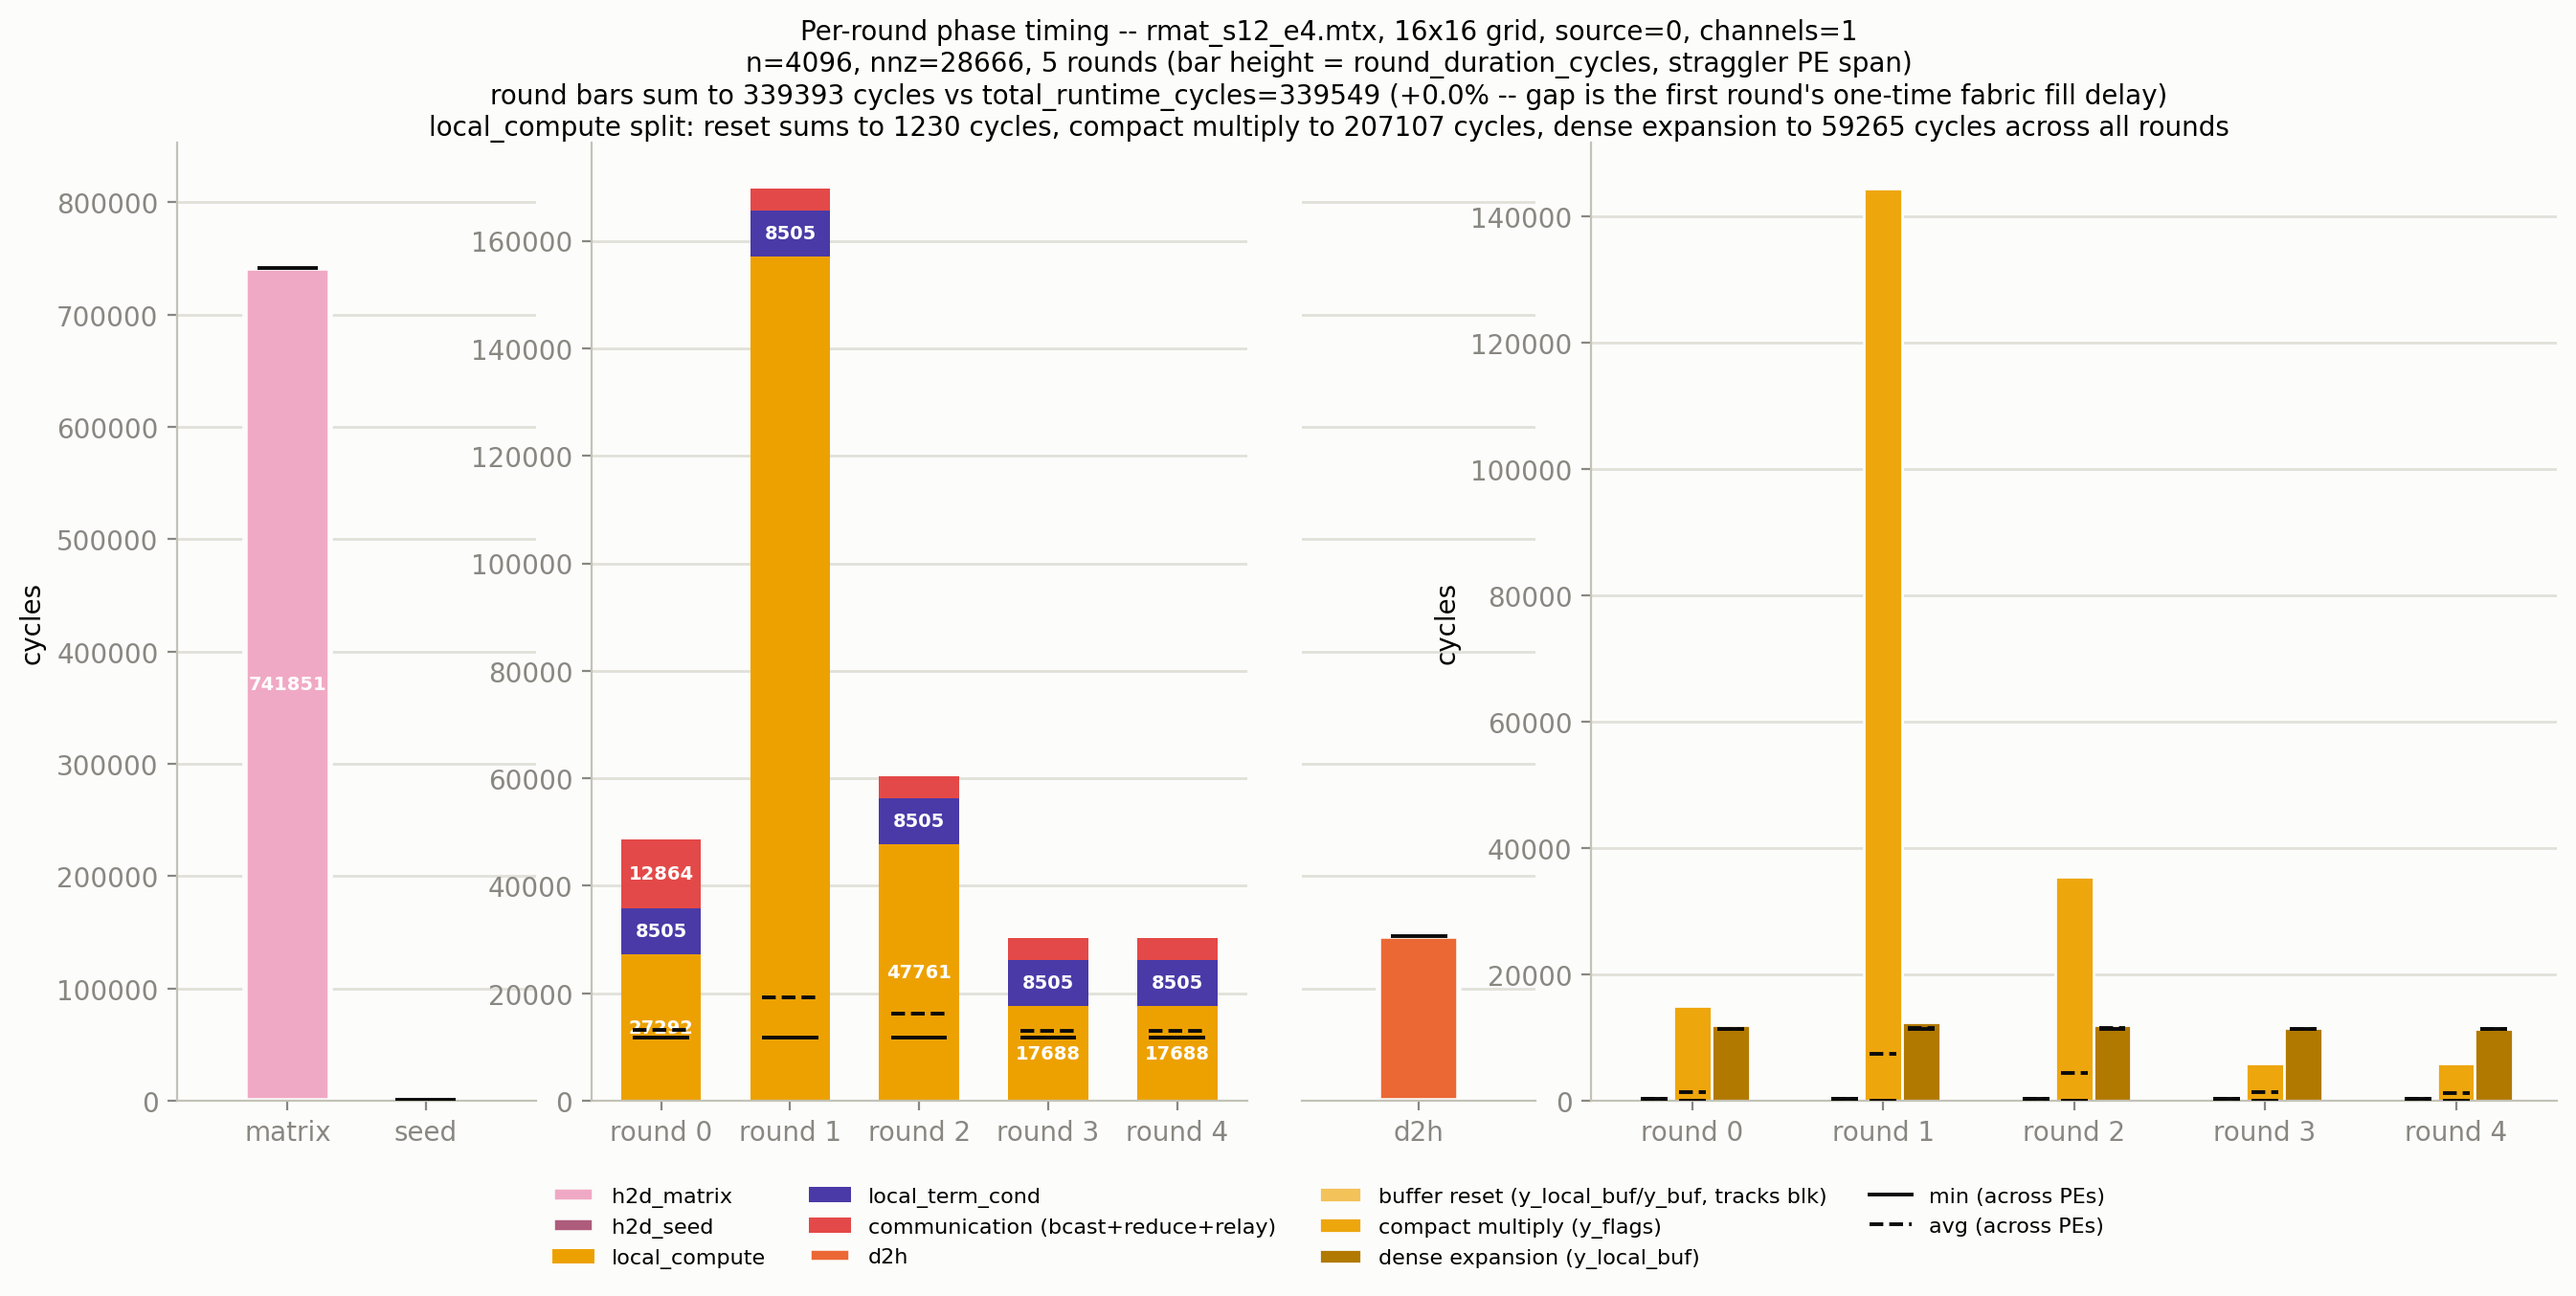
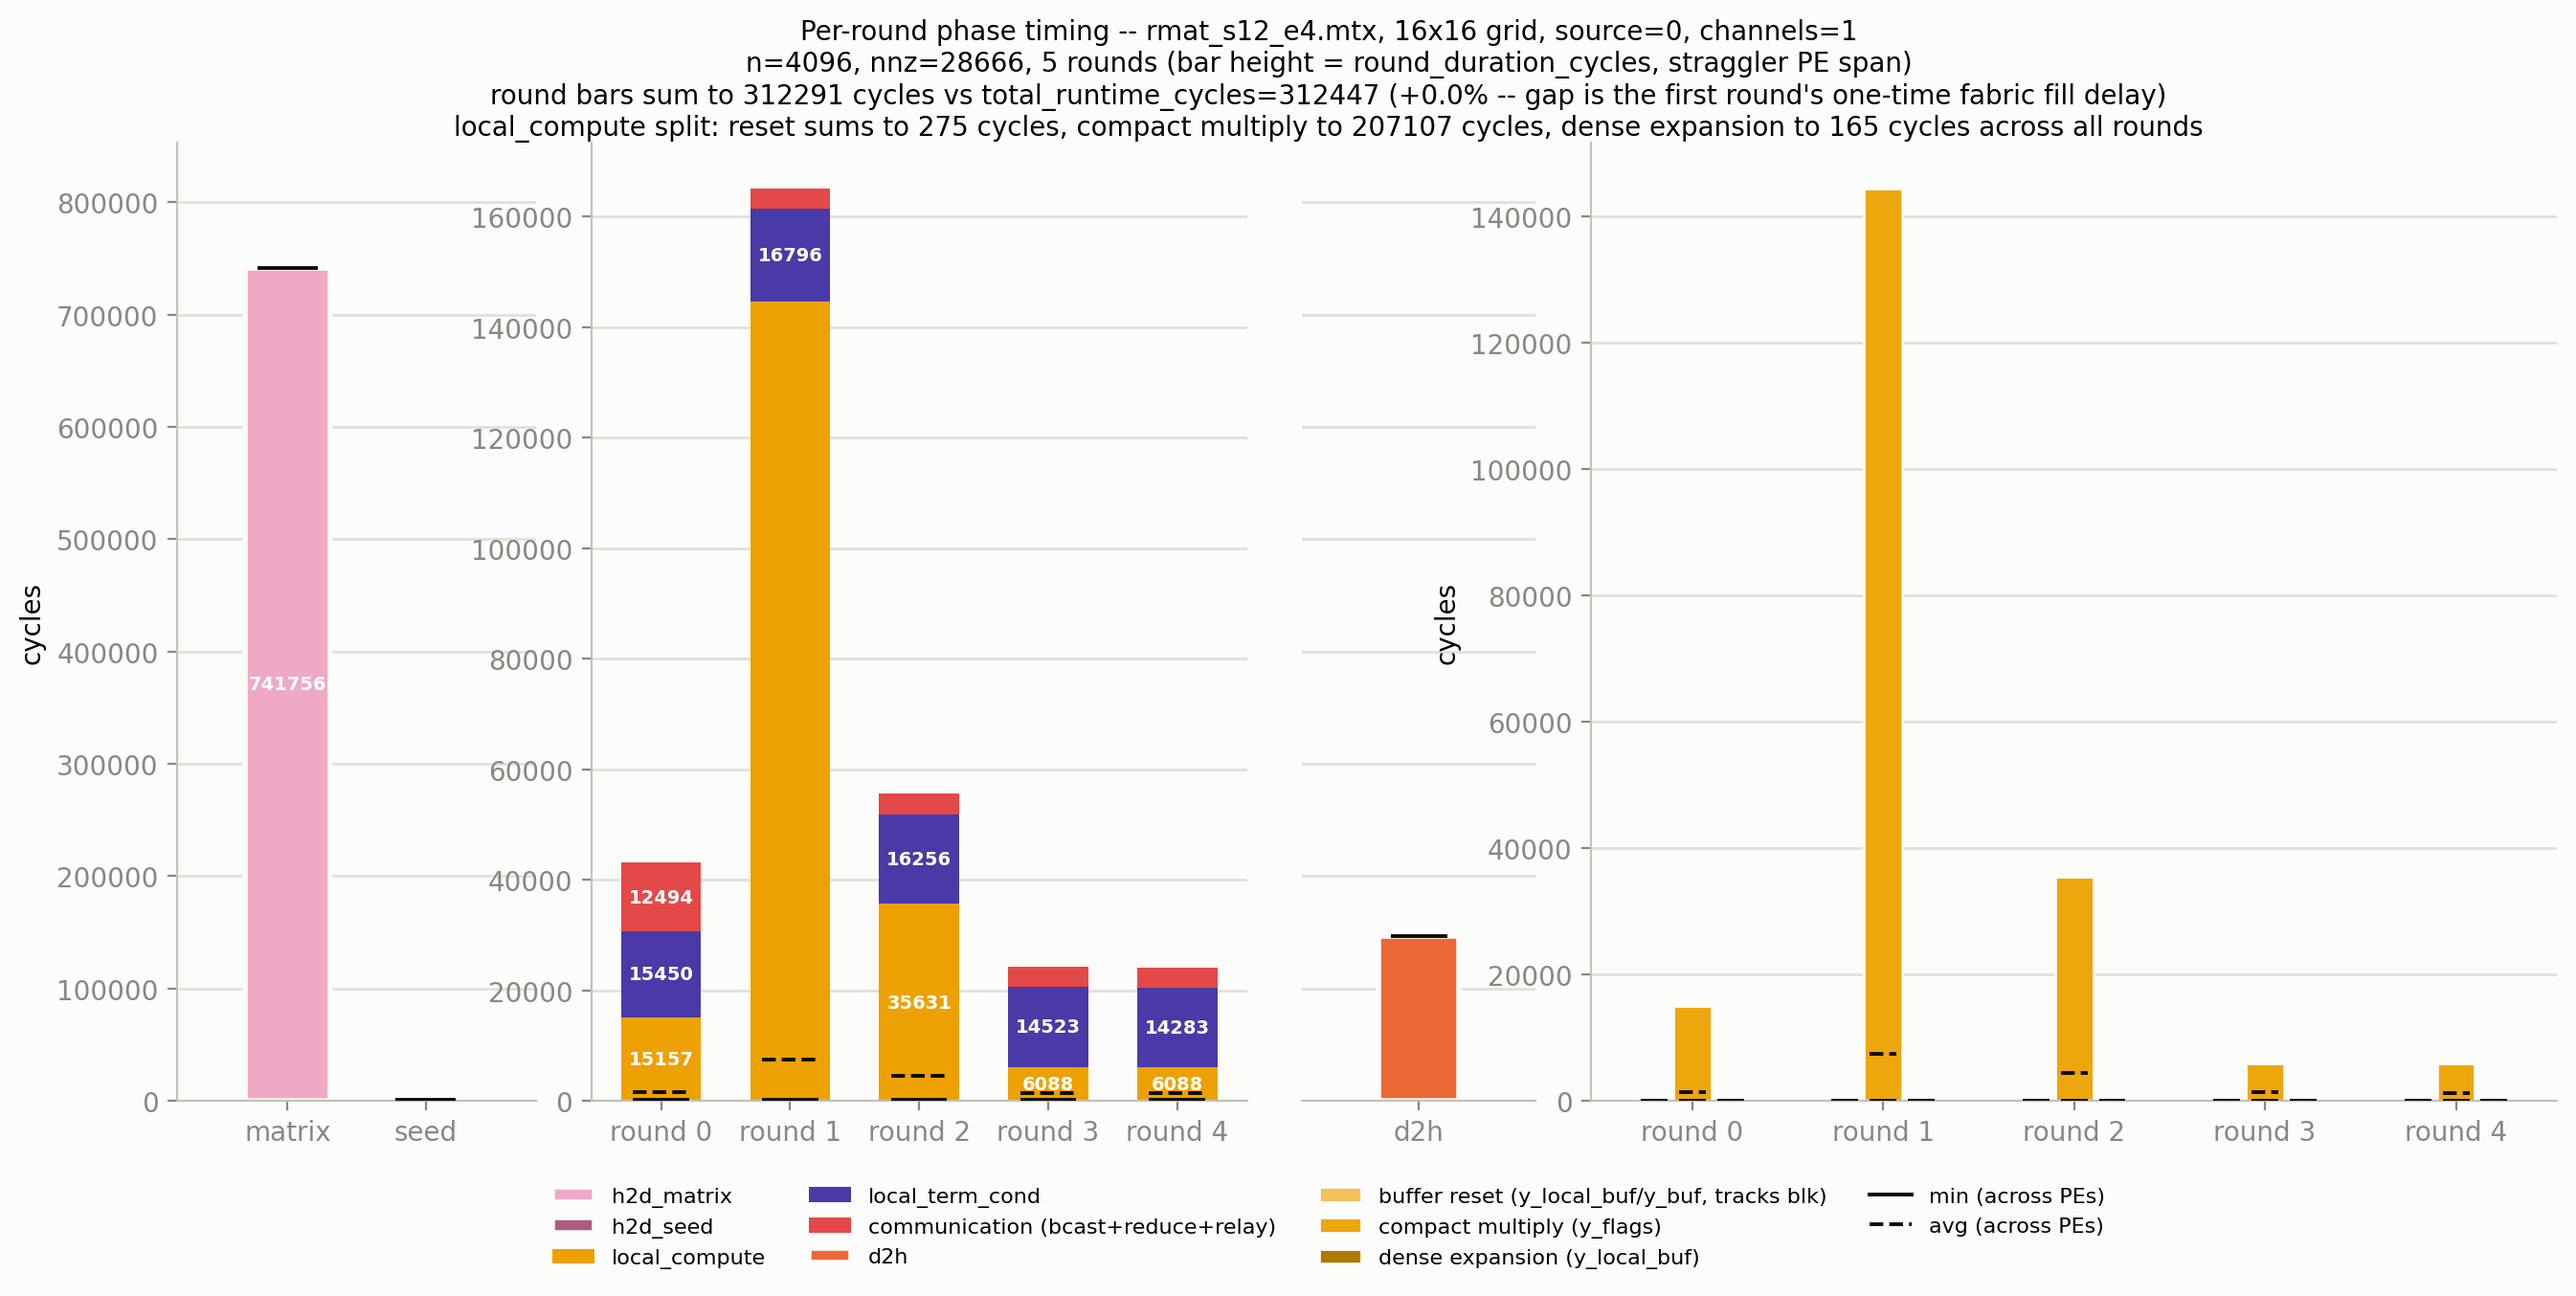
[add] hooked or_reduce in bfs: removed expand phase

diff --git a/spmv-hypersparse/bool_diag_spmv/run_host_driven_bfs.py b/spmv-hypersparse/bool_diag_spmv/run_host_driven_bfs.py
@@ -19,8 +19,8 @@
   stop.
 
   Parent tracking (which vertex discovered a given node) can't go through
-  reduce_fadds -- it's a sum, not a selection -- so it's tracked per-PE
-  BEFORE the reduce instead (see compute() in bool_pe.csl): every PE knows
+  the row-reduce -- it's a combine (OR), not a selection -- so it's tracked
+  per-PE BEFORE the reduce instead (see compute() in bool_pe.csl): every PE knows
   exactly which of its own local columns touched which local row this
   round, and -- gated on that row not being visited yet, which is what
   makes this a genuine one-hop-closer BFS parent rather than merely a
@@ -36,12 +36,13 @@
   discovered set) is bit-identical between running f_spmv_iter once and
   calling single-shot f_spmv from the host in a loop that applies the
   identical visited-mask and stops the same way; (2) the terminating
-  round's RAW (unmasked) y_buf is also bit-identical -- NOT the masked
-  x_buf, which the loop's own stop condition forces to all-zero on both
-  sides regardless of correctness, so comparing it would be vacuous; y_buf
-  is genuinely data-dependent (it can be nonzero, full of entries that
-  happen to already be in visited_buf) and is where a bug in the terminating
-  round's own SpMV computation would actually show up; (3) rounds_completed
+  round's RAW (unmasked) y_bitmap_reduced (unpacked to dense) is also
+  bit-identical -- NOT the masked x_buf, which the loop's own stop condition
+  forces to all-zero on both sides regardless of correctness, so comparing
+  it would be vacuous; y_bitmap_reduced is genuinely data-dependent (it can
+  be nonzero, full of entries that happen to already be in visited_buf) and
+  is where a bug in the terminating round's own SpMV computation would
+  actually show up; (3) rounds_completed
   (a host-visible counter, purely for this test) shows the device stopped at
   exactly the same round the host independently computed, not some other
   round; (4) the assembled parent vector matches a host-side reference that
@@ -71,7 +72,8 @@ from datetime import datetime, timezone
 import numpy as np
 from cmd_parser import parse_args
 from device_io import (csl_compile_core, dist_x_to_diag_hwl, extract_diag_result,
-                        extract_parent_result, hwl_to_oned_colmajor, oned_to_hwl_colmajor)
+                        extract_parent_result, hwl_to_oned_colmajor, oned_to_hwl_colmajor,
+                        unpack_bitmap_to_dense)
 from preprocess_bool import preprocess
 from scipy.io import mmread
 
@@ -207,6 +209,9 @@ def main():
   # blk = per-PE dense vector chunk size = ceil(n / P), same on both axes
   # since the matrix and grid are both square.
   blk = math.ceil(n / P)
+  # bitmap_words: matches bool_pe.csl's BITMAP_WORDS = ceil(blk/32) exactly --
+  # y_bitmap_reduced is packed this way, see device_io.unpack_bitmap_to_dense.
+  bitmap_words = (blk + 31) // 32
 
   np.random.seed(0)
   x_bool0 = np.random.rand(n) < 0.5
@@ -273,7 +278,7 @@ def main():
   runner = SdkRuntime(dirname, cmaddr=args.cmaddr, suppress_simfab_trace=True)
 
   sym_x_buf = runner.get_id("x_buf")
-  sym_y_buf = runner.get_id("y_buf")
+  sym_y_bitmap_reduced = runner.get_id("y_bitmap_reduced")
   sym_visited_buf = runner.get_id("visited_buf")
   sym_rounds_completed = runner.get_id("rounds_completed")
   sym_parent_local_buf = runner.get_id("parent_local_buf")
@@ -345,6 +350,18 @@ def main():
                        order=MemcpyOrder.COL_MAJOR, nonblock=False)
     return oned_to_hwl_colmajor(height, width, blk, buf_1d, np.float32)
 
+  def read_y_bitmap_reduced():
+    # y_bitmap_reduced is packed (bitmap_words u32 words per PE), not dense
+    # (blk f32 per PE) like read_buf's other callers (x_buf/visited_buf) --
+    # read it at its own native size, then unpack to the dense float shape
+    # read_buf's callers already expect (see extract_diag_result).
+    buf_1d = np.zeros(height * width * bitmap_words, np.uint32)
+    runner.memcpy_d2h(buf_1d, sym_y_bitmap_reduced, 0, 0, width, height, bitmap_words,
+                       streaming=False, data_type=MemcpyDataType.MEMCPY_32BIT,
+                       order=MemcpyOrder.COL_MAJOR, nonblock=False)
+    bitmap_hwl = np.reshape(buf_1d, (height, width, bitmap_words), order="F")
+    return unpack_bitmap_to_dense(height, width, blk, bitmap_hwl)
+
   def read_rounds_completed():
     # every PE increments its own copy in lockstep (the 4-phase relay makes
     # them all agree each round before any of them decides to continue), so
@@ -358,7 +375,7 @@ def main():
     return int(np.reshape(buf_1d, (height, width, 1), order="F")[(0, 0, 0)])
 
   def read_parent_local_buf():
-    # unlike x_buf/y_buf/visited_buf, parent_local_buf is meaningful at
+    # unlike x_buf/y_bitmap_reduced/visited_buf, parent_local_buf is meaningful at
     # EVERY PE (not just the diagonal) -- read back the full rectangle,
     # same u16-over-u32-wire convention as read_rounds_completed above.
     buf_1d = np.zeros(height * width * blk, np.uint32)
@@ -387,11 +404,11 @@ def main():
   # whether anything upstream is even correct. It's still useful as an
   # invariant check (the relay's stop decision better actually agree with
   # x_buf's content), just not as a host comparison. The real comparison
-  # uses y_buf -- the RAW, unmasked SpMV result for the terminating round,
-  # which is genuinely data-dependent (it can easily be nonzero, full of
-  # entries that all happen to already be in visited_buf).
+  # uses y_bitmap_reduced -- the RAW, unmasked SpMV result for the
+  # terminating round, which is genuinely data-dependent (it can easily be
+  # nonzero, full of entries that all happen to already be in visited_buf).
   device_new_last = extract_diag_result(n, blk, P, read_buf(sym_x_buf))
-  device_last_raw = extract_diag_result(n, blk, P, read_buf(sym_y_buf))
+  device_last_raw = extract_diag_result(n, blk, P, read_y_bitmap_reduced())
   device_visited = extract_diag_result(n, blk, P, read_buf(sym_visited_buf))
   device_rounds_run = read_rounds_completed()
   device_parent = extract_parent_result(n, blk, P, read_parent_local_buf())
@@ -405,7 +422,7 @@ def main():
   frontier_bool = x_bool0  # this round's active input, for update_parent_reference
   visited = x_bool0.copy()  # f_spmv_iter seeds visited_buf from the initial x_buf too
   host_parent = np.full(n, -1, dtype=np.int64)
-  host_last_raw = None  # the terminating round's raw y_buf -- the real comparison target
+  host_last_raw = None  # the terminating round's raw y_bitmap_reduced -- the real comparison target
   host_new_last = None
   per_round_popcount = []
   host_rounds_run = 0
@@ -413,7 +430,7 @@ def main():
     update_parent_reference(host_parent, A_csr, frontier_bool, visited)
     seed_x(x_hwl)
     runner.launch("f_spmv", nonblock=False)
-    host_last_raw = extract_diag_result(n, blk, P, read_buf(sym_y_buf))
+    host_last_raw = extract_diag_result(n, blk, P, read_y_bitmap_reduced())
     host_new_last = host_last_raw & ~visited
     visited |= host_new_last
     host_rounds_run += 1
@@ -446,7 +463,7 @@ def main():
             and (n_mismatch_parent == 0) and rounds_match and invariant_ok)
   n_with_parent = int(np.sum(device_parent >= 0))
   print(f"[[ visited mismatches: {n_mismatch_visited} / {n} ]]")
-  print(f"[[ last-round RAW (unmasked y_buf) mismatches: {n_mismatch_last_raw} / {n} ]]")
+  print(f"[[ last-round RAW (unmasked y_bitmap_reduced) mismatches: {n_mismatch_last_raw} / {n} ]]")
   print(f"[[ parent mismatches: {n_mismatch_parent} / {n} ({n_with_parent} assigned a parent) ]]")
   print(f"[[ rounds completed: device={device_rounds_run}, host={host_rounds_run} "
         f"({'match' if rounds_match else 'MISMATCH'}) ]]")

diff --git a/spmv-hypersparse/bool_diag_spmv/run_single_spmv.py b/spmv-hypersparse/bool_diag_spmv/run_single_spmv.py
@@ -7,12 +7,14 @@
     - y = OR_j (A[i,j] AND x[j]),
     - the PE grid must be square so every row/column has a diagonal PE.
 
-  The input vector x is seeded only at the diagonal PEs (host memcpy); 
+  The input vector x is seeded only at the diagonal PEs (host memcpy);
   1. Phase 1: (<collectives_2d> mpi_y.broadcast) distributes each column's x-block from
-    its diagonal PE to the rest of the column. 
-  2. Phase 2: (mpi_x.reduce_fadds) reduces every row's local boolean contributions to that row's diagonal PE,
-    which ends up holding the row's final result. 
-  The host reads back the full PE rectangle and keeps only the diagonal entries.
+    its diagonal PE to the rest of the column.
+  2. Phase 2: (mpi_x.reduce_or) OR-reduces every row's local boolean contributions (packed
+    as a bitmap, y_bitmap) to that row's diagonal PE, which ends up holding the row's final
+    result in y_bitmap_reduced.
+  The host reads back the full PE rectangle, unpacks the bitmap, and keeps only the
+  diagonal entries.
 
   How to compile and run
      python run_single_spmv.py --arch=wse2 --num_pe_cols=4 --num_pe_rows=4 --channels=1
@@ -28,7 +30,7 @@ import time
 import numpy as np
 from cmd_parser import parse_args
 from device_io import (csl_compile_core, dist_x_to_diag_hwl, extract_diag_result,
-                        hwl_to_oned_colmajor, oned_to_hwl_colmajor)
+                        hwl_to_oned_colmajor, unpack_bitmap_to_dense)
 from preprocess_bool import preprocess
 from scipy.io import mmread
 
@@ -137,6 +139,9 @@ def main():
   # blk = per-PE dense vector chunk size = ceil(n / P), same on both axes
   # since the matrix and grid are both square.
   blk = math.ceil(n / P)
+  # bitmap_words: matches bool_pe.csl's BITMAP_WORDS = ceil(blk/32) exactly --
+  # y_bitmap_reduced is packed this way, see device_io.unpack_bitmap_to_dense.
+  bitmap_words = (blk + 31) // 32
 
   np.random.seed(0)
   x_bool = (np.random.rand(n) < 0.5)
@@ -207,7 +212,7 @@ def main():
   runner = SdkRuntime(dirname, cmaddr=args.cmaddr, suppress_simfab_trace=True)
 
   sym_x_buf = runner.get_id("x_buf")
-  sym_y_buf = runner.get_id("y_buf")
+  sym_y_bitmap_reduced = runner.get_id("y_bitmap_reduced")
   sym_mat_rows_buf = runner.get_id("mat_rows_buf")
   sym_mat_col_idx_buf = runner.get_id("mat_col_idx_buf")
   sym_mat_col_loc_buf = runner.get_id("mat_col_loc_buf")
@@ -272,9 +277,10 @@ def main():
   print("step 2: spmv")
   runner.launch("f_spmv", nonblock=False)
 
-  print("step 3: fetch the output vector y (f32, meaningful only at the diagonal PEs)")
-  y_1d = np.zeros(height * width * blk, np.float32)
-  runner.memcpy_d2h(y_1d, sym_y_buf, 0, 0, width, height, blk,
+  print("step 3: fetch the output bitmap y_bitmap_reduced (u32 words, meaningful only at "
+        "the diagonal PEs), unpack to dense")
+  y_bitmap_1d = np.zeros(height * width * bitmap_words, np.uint32)
+  runner.memcpy_d2h(y_bitmap_1d, sym_y_bitmap_reduced, 0, 0, width, height, bitmap_words,
                      streaming=False, data_type=MemcpyDataType.MEMCPY_32BIT,
                      order=MemcpyOrder.COL_MAJOR, nonblock=False)
 
@@ -283,7 +289,8 @@ def main():
   end = time.time()
   print(f"*** Run done in {end-start}s")
 
-  y_hwl = oned_to_hwl_colmajor(height, width, blk, y_1d, np.float32)
+  y_bitmap_hwl = np.reshape(y_bitmap_1d, (height, width, bitmap_words), order="F")
+  y_hwl = unpack_bitmap_to_dense(height, width, blk, y_bitmap_hwl)
   y_wse = extract_diag_result(n, blk, P, y_hwl)
 
   verify_result(y_ref, y_wse)

diff --git a/spmv-hypersparse/bool_diag_spmv/device_io.py b/spmv-hypersparse/bool_diag_spmv/device_io.py
@@ -92,12 +92,26 @@ def single_source_seed_pe(source, blk, P):
   return p, p, local_x
 
 
-# Extract the diagonal PEs' y_buf (the only ones holding a meaningful final
-# result) and reassemble into the length-n boolean output vector.
+# Extract the diagonal PEs' y_bitmap_reduced (the only ones holding a
+# meaningful final result) and reassemble into the length-n boolean output
+# vector.
 def extract_diag_result(n, blk, P, y_hwl):
   parts = [y_hwl[(p, p)] for p in range(P)]
   y_pad = np.concatenate(parts)
   return y_pad[0:n] > 0.0
+
+
+def unpack_bitmap_to_dense(height, width, blk, bitmap_hwl):
+  """bitmap_hwl: (height, width, bitmap_words) uint32, bit k of word (k>>5)
+  at bit position (k&31) -- bool_pe.csl's y_bitmap/y_bitmap_reduced layout
+  exactly (see its own declaration comment there). Returns a dense
+  (height, width, blk) float32 array (0.0/1.0), matching the dtype
+  extract_diag_result already assumes, so callers can feed the result
+  straight into extract_diag_result unchanged."""
+  dense = np.zeros((height, width, blk), dtype=np.float32)
+  for k in range(blk):
+    dense[:, :, k] = ((bitmap_hwl[:, :, k >> 5] >> (k & 31)) & 1).astype(np.float32)
+  return dense
 
 
 def extract_parent_result(n, blk, P, parent_hwl):
